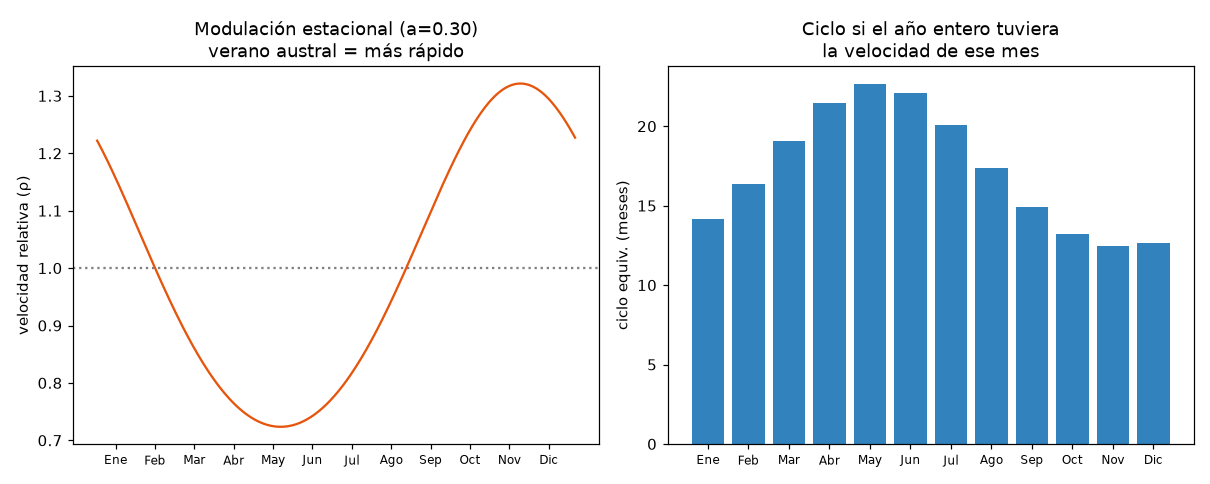
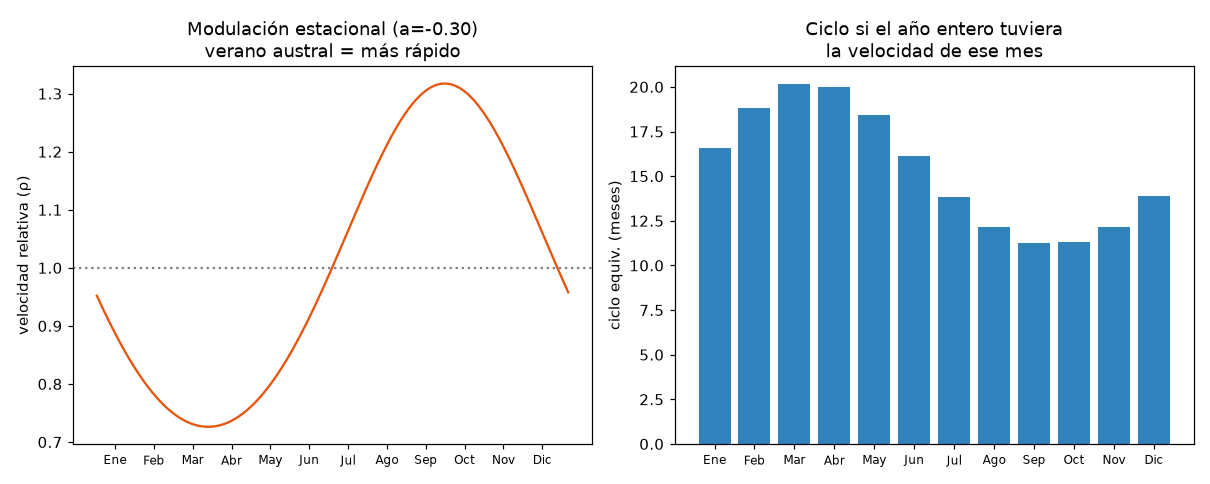
docs: guia de la app al dia + refrescar cachés derivados
CLAUDE.md suma las secciones de lo incorporado en los commits anteriores: que
cada app usa el .venv propio (correr los tests con el python del PATH da falsos
verdes), que la biomasa publicable es biomass_projected_kg y no
biomass_current, que los reportes salen de build_reports_payload para HTML y
JSON, el patron comun de las tres PWAs offline y como desplegarlas sin que el
tablet se quede con codigo viejo, el sexado offline y el modulo de ensilaje.

Ademas se regeneraron los cachés derivados (factor de rendimiento de caviar,
crecimiento de ovocitos, ciclo de ovulacion) y sus graficos.

diff --git a/CLAUDE.md b/CLAUDE.md
@@ -1,7 +1,8 @@
 # CrianzaApp — Guía para Claude
 
 App **FastAPI** (Python, español) de crianza de esturión: estanques, peces (PIT),
-muestreos, reproducción, **sexado offline** y **calidad de agua**. Puerto **8002**.
+muestreos, reproducción, **sexado offline**, **calidad de agua** y **molienda/ensilaje**.
+Puerto **8002**.
 
 ## Base de datos — LEER ANTES DE CUALQUIER SCRIPT ⚠
 
@@ -33,3 +34,139 @@ CasAmaliApp → `casamaliapp`.
   ramas parten del mismo `down_revision`.
 - El `.venv` **no** tiene pytest/httpx (TestClient no usable): verificar fabricando
   un Starlette `Request` y llamando a los handlers directo, con `PYTHONIOENCODING=utf-8`.
+  Para APIs completas conviene `start_dev.cmd` (**puerto 8003**, no toca producción) y
+  golpear los endpoints con `urllib`. ⚠ Ojo: dev y producción comparten la **misma BD**,
+  así que hay que limpiar los datos de prueba al terminar.
+
+
+### Dependencias: usa el .venv de ESTA app ⚠
+Hay **cuatro entornos virtuales separados** en el servidor (PlantaAPP, CrianzaApp,
+AdminDashboard, CasAmaliApp) y divergieron a propósito: CrianzaApp ya está en
+Starlette 1.0 / FastAPI 0.136 mientras las otras siguen en 0.38 / 0.114. No hay que
+unificarlos.
+
+La trampa: la terminal suele venir con **el venv de PlantaApp activado**
+(`VIRTUAL_ENV`), así que un `pip install` pelado instala ahí sin avisar, estés en
+la carpeta que estés. Siempre explícito:
+
+```
+.venv\Scripts\python.exe -m pip install -r requirements.txt
+.venv\Scripts\python.exe -m pytest tests/
+```
+
+Correr los tests con el `python` del PATH da falsos verdes: la app pasa en un
+entorno y revienta en el suyo. `start_server.cmd` ahora verifica que cada app
+importe antes de lanzar uvicorn, justamente por esto.
+
+## Biomasa: qué campo es el bueno ⚠
+
+Coexisten dos cachés en `ponds` y solo uno refleja el criterio vigente:
+
+- **`biomass_projected_kg`** ← **este**. Suma por estanque de
+  `_project_biomass_from_checkpoint(hoy)`: proyección por `(estanque, lote)` desde
+  `biomass_checkpoints`, ancla en el mejor checkpoint ≤ hoy, ajustada por los movimientos
+  posteriores. Es el mismo número que el KPI "Biomasa" de `/ui/ponds` (`stat_biomass`).
+- **`biomass_current`** ← caché del criterio anterior a la unificación de ago-2026. Se
+  ajusta solo de forma incremental (`_adjust_biomass_on_movement`) y ya **no** se rehace en
+  cada movimiento. **No usarlo para reportes.** En sep-2026 daba +9,4% sobre el total real
+  (192.854 vs 176.339 kg) y hasta ±4,4 t por estanque; AdminDashboard lo sumaba y por eso
+  mostraba una biomasa que no cuadraba con esta app.
+
+El caché lo escribe `refresh_projected_biomass_cache()`, que corre dentro de
+`rebuild_all_pond_runtime_cache` (job `pond_cache_scheduler`, Lun-Vie 8-18 cada 2h) y al
+**cerrar una sesión de muestreo** (cuesta ~0,3 s). Junto con los kg persiste
+`biomass_projected_at` (frescura) y `biomass_projected_lots_missing` (lotes con peces y sin
+checkpoint: valen 0 kg en la proyección, así que sin ese contador un estanque sin muestreo
+se ve igual que uno vacío).
+
+**Es contrato con AdminDashboard**, que lo lee con un `SELECT` para no duplicar el
+algoritmo: si cambia el criterio de biomasa, estas columnas tienen que seguir siendo la
+salida oficial. Tras una carga masiva o un `alembic upgrade`, poblar con
+`scripts/rebuild_pond_runtime_cache.py`.
+
+## Reportes mensuales: una sola fuente para HTML y JSON
+
+`build_reports_payload(month, report, db)` arma los cuatro reportes de `/views/ui/reports`
+(existencia y alimento, por lote y por estanque). Encima hay dos envoltorios delgados:
+`ui_reports` (HTML) y **`/views/api/reports` (JSON), que consume AdminDashboard**.
+Al tocar un reporte, cambiar el payload —no el handler— o el dashboard queda viendo otra
+cosa. El JSON devuelve solo el bloque del reporte pedido.
+
+## PWAs offline (mismo patrón, tres veces)
+
+`app/field_client/` → `/captura` (O2) · `app/sexado_client/` → `/sexado_offline` ·
+`app/silage_client/` → `/ensilaje` (molienda). Todas: montadas en `main.py` con
+**`NoCacheStatic`** (ver abajo), IndexedDB con stores `meta`+`queue`, y una API
+`/api/<dominio>/v1` con `GET /bootstrap` + `POST` en lote **idempotente por `client_uuid`**.
+Los `sw.js` precachean `icon-192/512.png`: si faltan, la instalación del service worker
+falla y se cae el modo offline completo.
+
+### Desplegar un cambio de PWA ⚠
+
+Los tablets se quedan con código viejo **sin ninguna señal visible**, y diagnosticarlo
+a ciegas cuesta horas (pasó el 19/08/2026: un equipo corrió código de días atrás pese a
+reinstalar la app). Tres defensas, y las tres tienen que moverse juntas:
+
+1. **`NoCacheStatic`** en `main.py` manda `Cache-Control: no-cache, must-revalidate`
+   sobre el shell. Sin eso el navegador aplica caché heurístico y **no revalida nunca**.
+2. **`sexado_client` es network-first con timeout de 2,5 s** (`sw.js`): con conexión gana
+   el servidor; si la red no contesta —tablet asociado al Wi-Fi pero sin ruta— se sirve el
+   caché para que la app abra igual. El fallback usa `ignoreSearch` porque la página pide
+   `app.js?v=N` y el precache guarda `app.js` a secas.
+3. **Al tocar el cliente, subir los tres a la vez**: `APP_VERSION` en `app.js`, `CACHE` en
+   `sw.js` y el `?v=` del `<script>` en `index.html`. La versión se muestra en la barra
+   superior del tablet: es la forma de saber qué código corre un equipo sin adivinar.
+
+Con `sw.js` cache-first (el patrón viejo, que aún usan `/captura` y `/ensilaje`) un deploy
+tarda **dos recargas** en llegar: la primera instala el SW nuevo, la segunda recién sirve
+el `app.js` nuevo.
+
+## Sexado offline: conflictos y ciclo de sesión
+
+La sesión (`sexado_offline_sessions`) bloquea 1 estanque fuente + hasta 10 destinos
+mientras está en `active` o `reconciling`. Al sincronizar, lo que no se puede aplicar
+queda como `pending_review` en `sexing_offline_operations`.
+
+- **El tablet resuelve sus propios conflictos** (`GET /conflicts`, `POST /conflicts/{id}/resolve`
+  con `retry` | `dismiss` | `supervisor`). Al quedar cero, `close_session_if_clean` cierra
+  la sesión y libera el estanque sin pasar por el escritorio.
+- **`reason_code`** guarda el motivo como código estable (el `result_message` es texto para
+  humanos y cambia). `conflict_severity()` lo traduce a `duplicate` / `data` / `traceability`
+  = qué se pierde si el operador descarta. El `duplicate` **no** se congela al sincronizar:
+  se calcula al listar comparando contra el pez tal como está hoy.
+- **`finalize_session` mira los pendientes reales de la sesión**, no los del batch: un
+  segundo sync sin contingencias nuevas no puede cerrar una sesión con pendientes vivas.
+- **La bandeja lista toda sesión con pendientes**, aunque esté cerrada; si no, una operación
+  se vuelve invisible y solo se toca por endpoint directo.
+- **Sesión abandonada**: si el tablet suelta su token, los conflictos solo se alcanzan desde
+  el escritorio. Por eso la pantalla de setup ofrece *retomar* las sesiones que siguen
+  bloqueando (`GET /sessions` → `POST /resume`).
+
+## Módulo Molienda y Ensilaje (registro PC 03.2)
+
+Ver `especificacion_molienda_ensilaje_v1.md`. **Completo** (PR1–PR6): modelos, motor
+(`app/services/silage.py`), API (`app/api/silage.py`), PWA (`app/silage_client/` → `/ensilaje`)
+y vistas web (`app/api/silage_views.py` → `/views/ui/ensilaje/{registro,dia,inspeccion,
+tambores,acido,despachos,conciliacion}`, con CSS y pestañas en los parciales
+`_ensilaje_style.html` / `_ensilaje_tabs.html`).
+Tres invariantes que no son evidentes leyendo el código suelto:
+
+- **La captura es aditiva**: la unidad es la *carga*, no el día. Varias cargas por fecha
+  suman; `log_date` está indexado pero **no** es único. Corregir = anular (`voided_at`) y
+  registrar de nuevo, nunca reenviar.
+- **El criterio de aceptación es el pH (<4), no la dosis de ácido.** El rango
+  0,20–0,30 lts/kg es solo un chequeo de verosimilitud y jamás bloquea: si se presentara
+  como error, el operador ajustaría los litros digitados y corrompería el inventario.
+- **Los parámetros salen del procedimiento escrito del PC 03.2**, no de estimaciones:
+  dosis nominal 1 lt por 4 kg (=0,25 lts/kg) y cierre del tambor a **4/5** (`drum_close_fill_ratio`).
+  Antes de cambiarlos, revisar el texto "Información Importante" del formato.
+
+Además: el **folio** lo asigna el servidor (secuencia `silage_folio_seq`), nunca la PWA;
+un índice único parcial (`uniq_silage_drum_open`) garantiza **un solo tambor abierto**; y la
+PWA abre con una **ventana de seguridad bloqueante** (se trabaja con ácido) en cada apertura.
+
+⚠ La ventana de seguridad y el panel de **primeros auxilios** viven en un `<script>` dentro de
+`app/silage_client/index.html`, **nunca en `app.js`**: cuando estuvieron en el bundle, un error
+ahí dejó el botón "acepto" muerto y al operador encerrado. Es contenido de emergencia y no
+puede depender de que cargue el resto de la app. Al tocar la PWA hay que **subir `CACHE` en
+`sw.js`** o la tablet sigue sirviendo la versión anterior.
